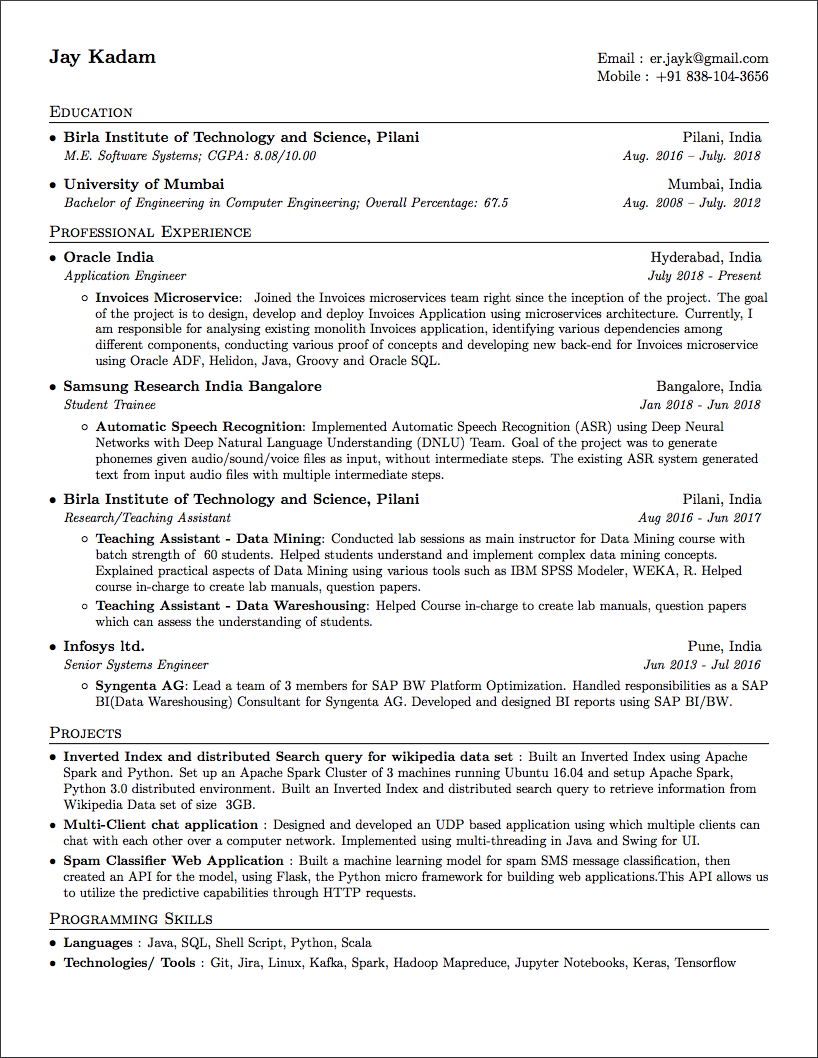
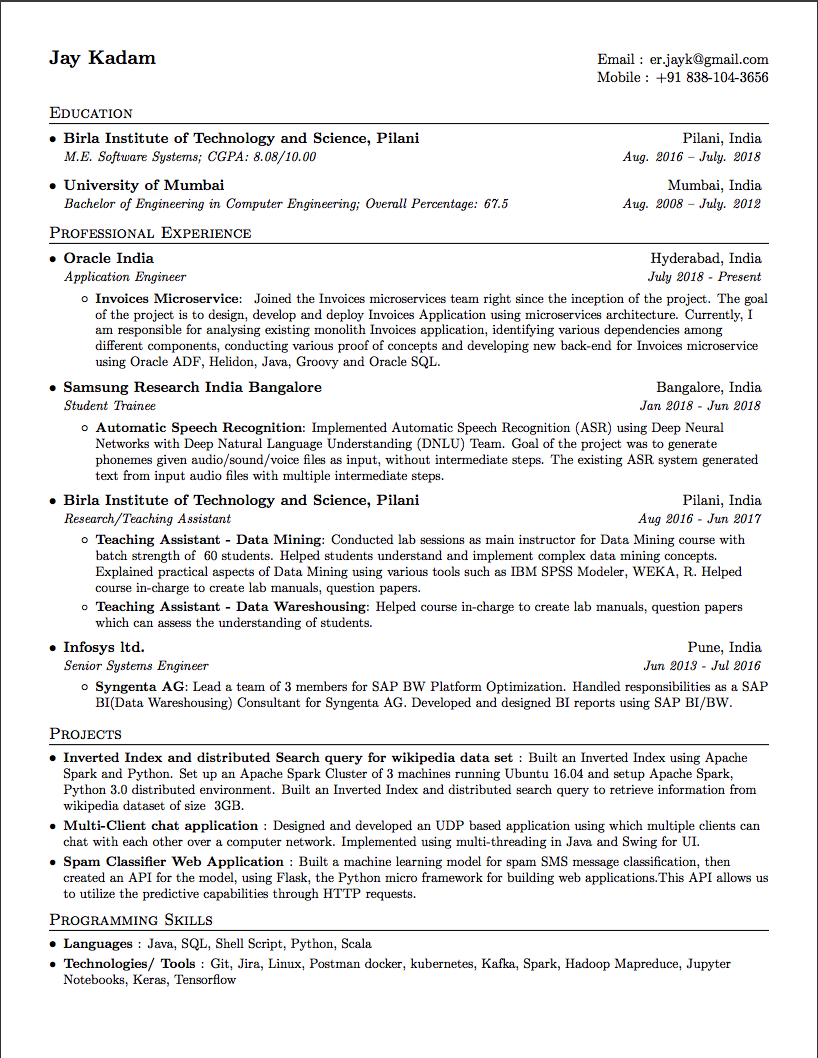
update resume

diff --git a/resume_source.tex b/resume_source.tex
@@ -117,7 +117,7 @@
           {Conducted lab sessions as main instructor for Data Mining course with batch      strength of ~60 students. Helped students understand and implement complex      data mining concepts. Explained practical aspects of Data Mining using various tools such as IBM SPSS     Modeler, WEKA, R.
             Helped course in-charge to create lab manuals, question papers.}
         \resumeItem{Teaching Assistant - Data Wareshousing}
-          {Helped Course in-charge to  create lab manuals, question papers which can assess the understanding of students.}
+          {Helped course in-charge to  create lab manuals, question papers which can assess the understanding of students.}
       \resumeItemListEnd
     \resumeSubheading
       {Infosys ltd.}{Pune, India}
@@ -137,7 +137,7 @@
     \resumeSubItem{Inverted Index and distributed Search query for wikipedia data set }
       {Built an Inverted Index using Apache Spark and Python.
 Set up an Apache Spark Cluster of 3 machines running Ubuntu 16.04 and setup Apache Spark, Python 3.0 distributed environment.
-Built an Inverted Index and distributed search query to retrieve information from Wikipedia Data set of size ~3GB.}
+Built an Inverted Index and distributed search query to retrieve information from wikipedia dataset of size ~3GB.}
 \resumeSubItem{Multi-Client chat application }
       {Designed and developed an UDP based application using which multiple clients can chat with each other over a computer network. Implemented using multi-threading in Java and Swing for UI.}
 
@@ -151,7 +151,7 @@ Built an Inverted Index and distributed search query to retrieve information fro
 \section{Programming Skills}
   \resumeSubHeadingListStart
     \resumeSubItem{Languages }{Java, SQL, Shell Script, Python, Scala}
-    \resumeSubItem{Technologies/ Tools }{Git, Jira, Linux, Kafka, Spark, Hadoop Mapreduce, Jupyter Notebooks, Keras, Tensorflow}
+    \resumeSubItem{Technologies/ Tools }{Git, Jira, Linux, Postman docker, kubernetes, Kafka, Spark, Hadoop Mapreduce, Jupyter Notebooks, Keras, Tensorflow}
   \resumeSubHeadingListEnd
 
 
